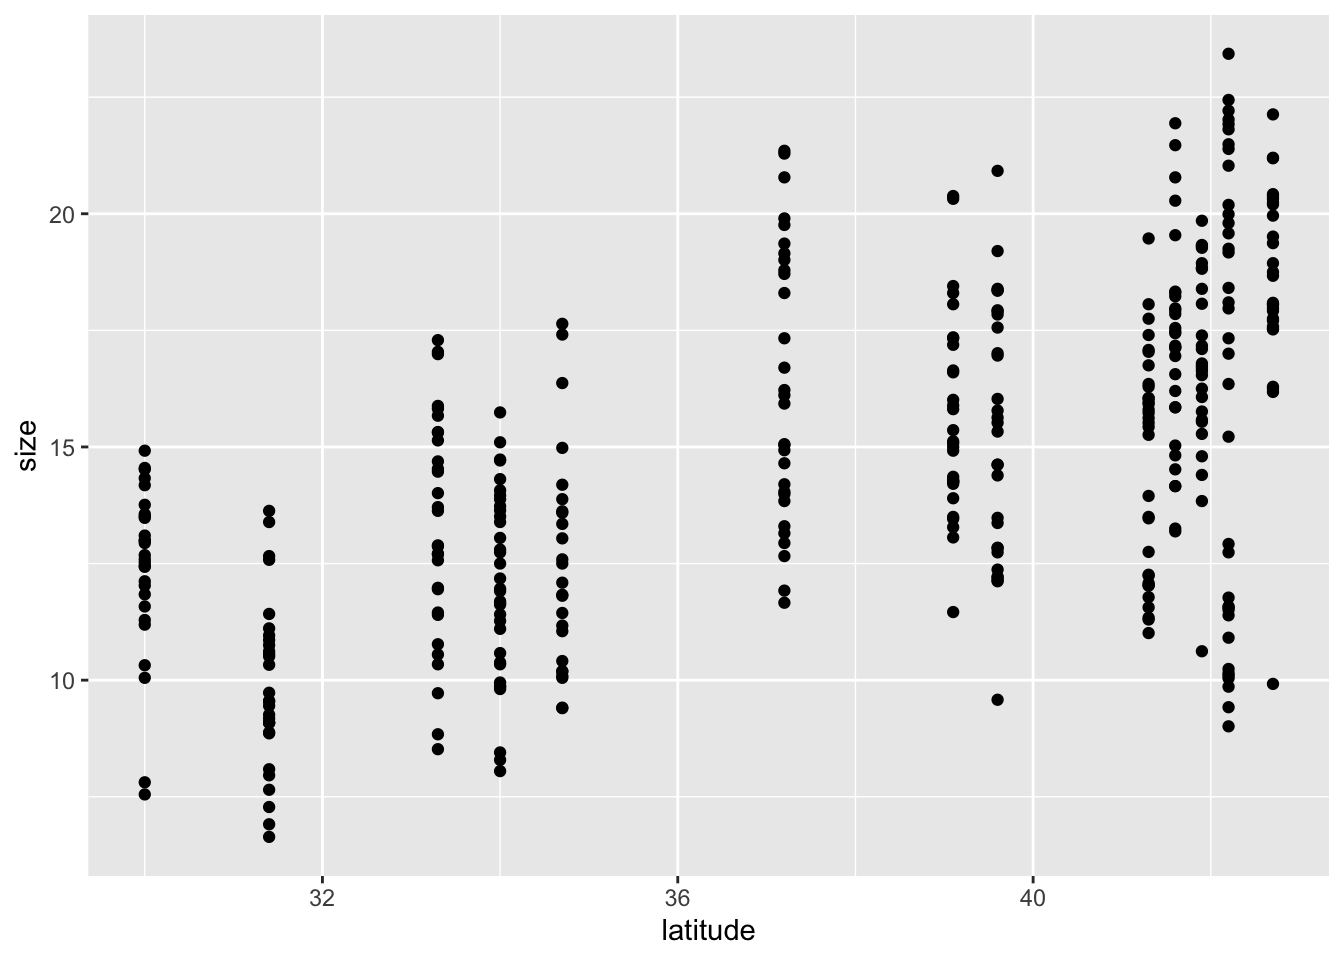
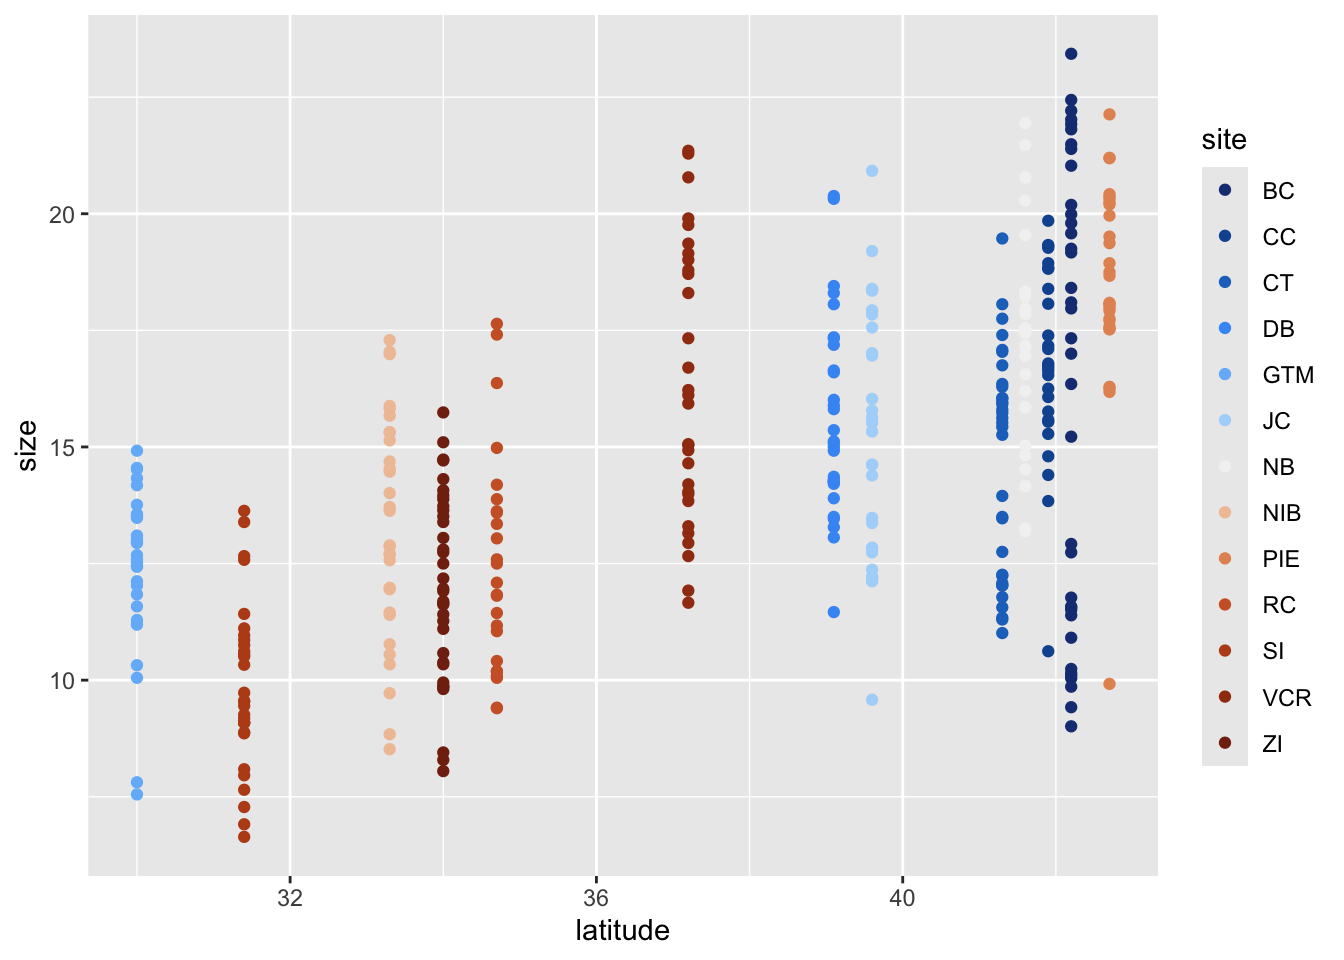
made graph good

diff --git a/test.html b/test.html
@@ -115,8 +115,9 @@ pre > code.sourceCode > span > a:first-child::before { text-decoration: underlin
 <div class="cell">
 <div class="sourceCode cell-code" id="cb1"><pre class="sourceCode r code-with-copy"><code class="sourceCode r"><span id="cb1-1"><a href="#cb1-1" aria-hidden="true" tabindex="-1"></a><span class="fu">library</span>(tidyverse) <span class="co">#general use package </span></span>
 <span id="cb1-2"><a href="#cb1-2" aria-hidden="true" tabindex="-1"></a><span class="fu">library</span>(lterdatasampler) <span class="co">#package of data sets</span></span>
-<span id="cb1-3"><a href="#cb1-3" aria-hidden="true" tabindex="-1"></a></span>
-<span id="cb1-4"><a href="#cb1-4" aria-hidden="true" tabindex="-1"></a><span class="fu">data</span>(pie_crab) <span class="co">#crab size dataset </span></span></code><button title="Copy to Clipboard" class="code-copy-button"><i class="bi"></i></button></pre></div>
+<span id="cb1-3"><a href="#cb1-3" aria-hidden="true" tabindex="-1"></a><span class="fu">library</span>(NatParksPalettes) <span class="co">#color packets</span></span>
+<span id="cb1-4"><a href="#cb1-4" aria-hidden="true" tabindex="-1"></a></span>
+<span id="cb1-5"><a href="#cb1-5" aria-hidden="true" tabindex="-1"></a><span class="fu">data</span>(pie_crab) <span class="co">#crab size dataset </span></span></code><button title="Copy to Clipboard" class="code-copy-button"><i class="bi"></i></button></pre></div>
 </div>
 </section>
 <section id="exploratory-data-visualizatoin" class="level1">
@@ -124,10 +125,14 @@ pre > code.sourceCode > span > a:first-child::before { text-decoration: underlin
 <div class="cell">
 <div class="sourceCode cell-code" id="cb2"><pre class="sourceCode r code-with-copy"><code class="sourceCode r"><span id="cb2-1"><a href="#cb2-1" aria-hidden="true" tabindex="-1"></a><span class="fu">ggplot</span>(<span class="at">data=</span>pie_crab,</span>
 <span id="cb2-2"><a href="#cb2-2" aria-hidden="true" tabindex="-1"></a>       <span class="fu">aes</span>(<span class="at">x =</span> latitude, </span>
-<span id="cb2-3"><a href="#cb2-3" aria-hidden="true" tabindex="-1"></a>           <span class="at">y =</span> size)</span>
-<span id="cb2-4"><a href="#cb2-4" aria-hidden="true" tabindex="-1"></a>       ) <span class="sc">+</span></span>
-<span id="cb2-5"><a href="#cb2-5" aria-hidden="true" tabindex="-1"></a>  <span class="co">#points to represent individual crabs </span></span>
-<span id="cb2-6"><a href="#cb2-6" aria-hidden="true" tabindex="-1"></a>  <span class="fu">geom_point</span>()</span></code><button title="Copy to Clipboard" class="code-copy-button"><i class="bi"></i></button></pre></div>
+<span id="cb2-3"><a href="#cb2-3" aria-hidden="true" tabindex="-1"></a>           <span class="at">y =</span> size,</span>
+<span id="cb2-4"><a href="#cb2-4" aria-hidden="true" tabindex="-1"></a>           <span class="at">color =</span> site)</span>
+<span id="cb2-5"><a href="#cb2-5" aria-hidden="true" tabindex="-1"></a>       ) <span class="sc">+</span></span>
+<span id="cb2-6"><a href="#cb2-6" aria-hidden="true" tabindex="-1"></a>  <span class="co">#points to represent individual crabs </span></span>
+<span id="cb2-7"><a href="#cb2-7" aria-hidden="true" tabindex="-1"></a>  <span class="fu">geom_point</span>() <span class="sc">+</span> </span>
+<span id="cb2-8"><a href="#cb2-8" aria-hidden="true" tabindex="-1"></a>  <span class="fu">scale_color_manual</span>(</span>
+<span id="cb2-9"><a href="#cb2-9" aria-hidden="true" tabindex="-1"></a>    <span class="at">values =</span> <span class="fu">natparks.pals</span>(<span class="st">"Arches"</span>, <span class="at">n =</span> <span class="dv">13</span>, <span class="at">type =</span> <span class="st">"continuous"</span>)</span>
+<span id="cb2-10"><a href="#cb2-10" aria-hidden="true" tabindex="-1"></a>  )</span></code><button title="Copy to Clipboard" class="code-copy-button"><i class="bi"></i></button></pre></div>
 <div class="cell-output-display">
 <div>
 <figure class="figure">
